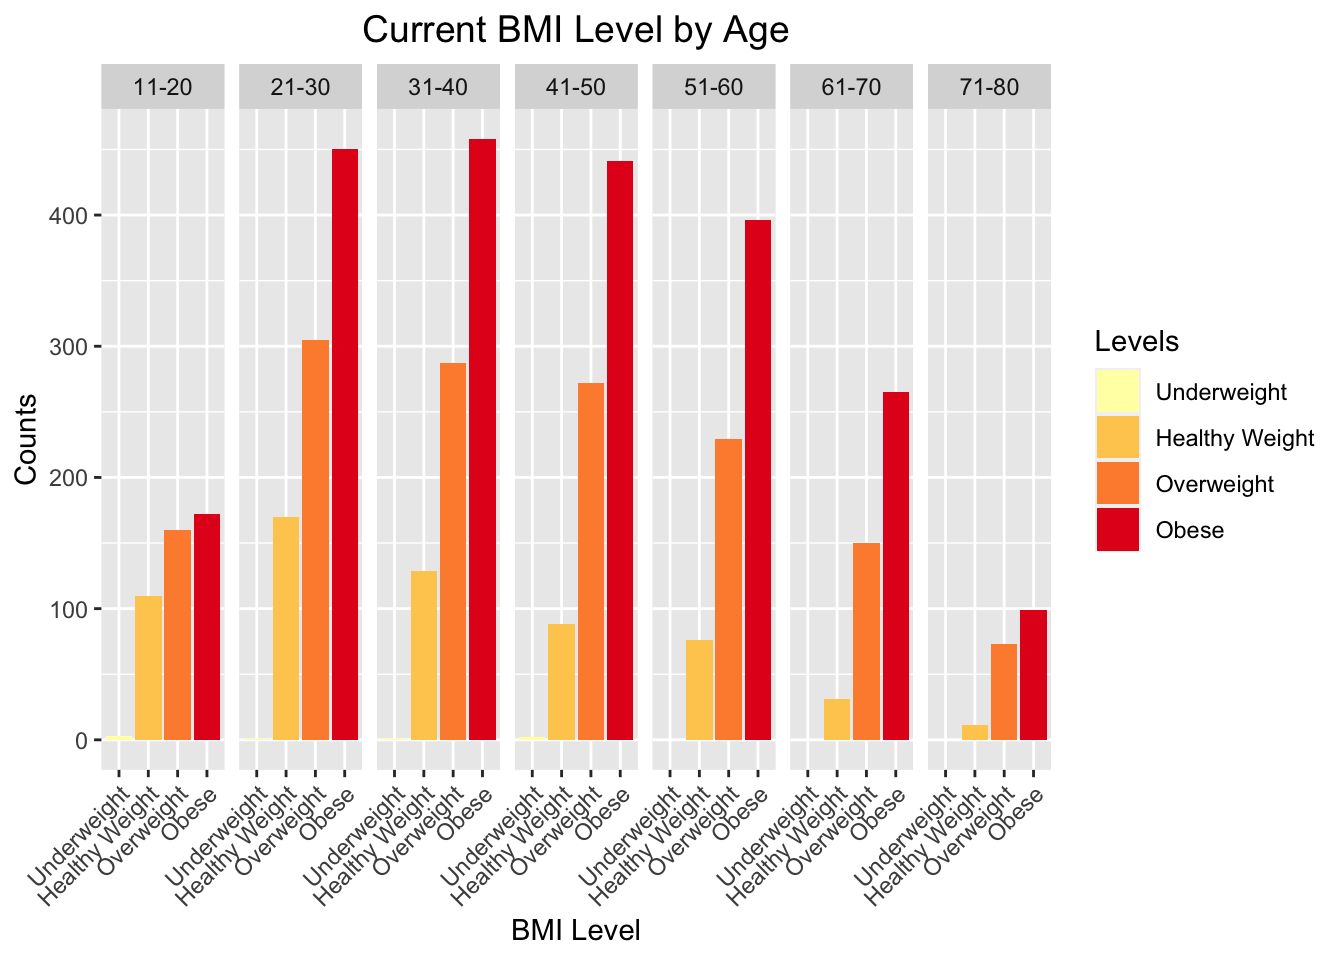
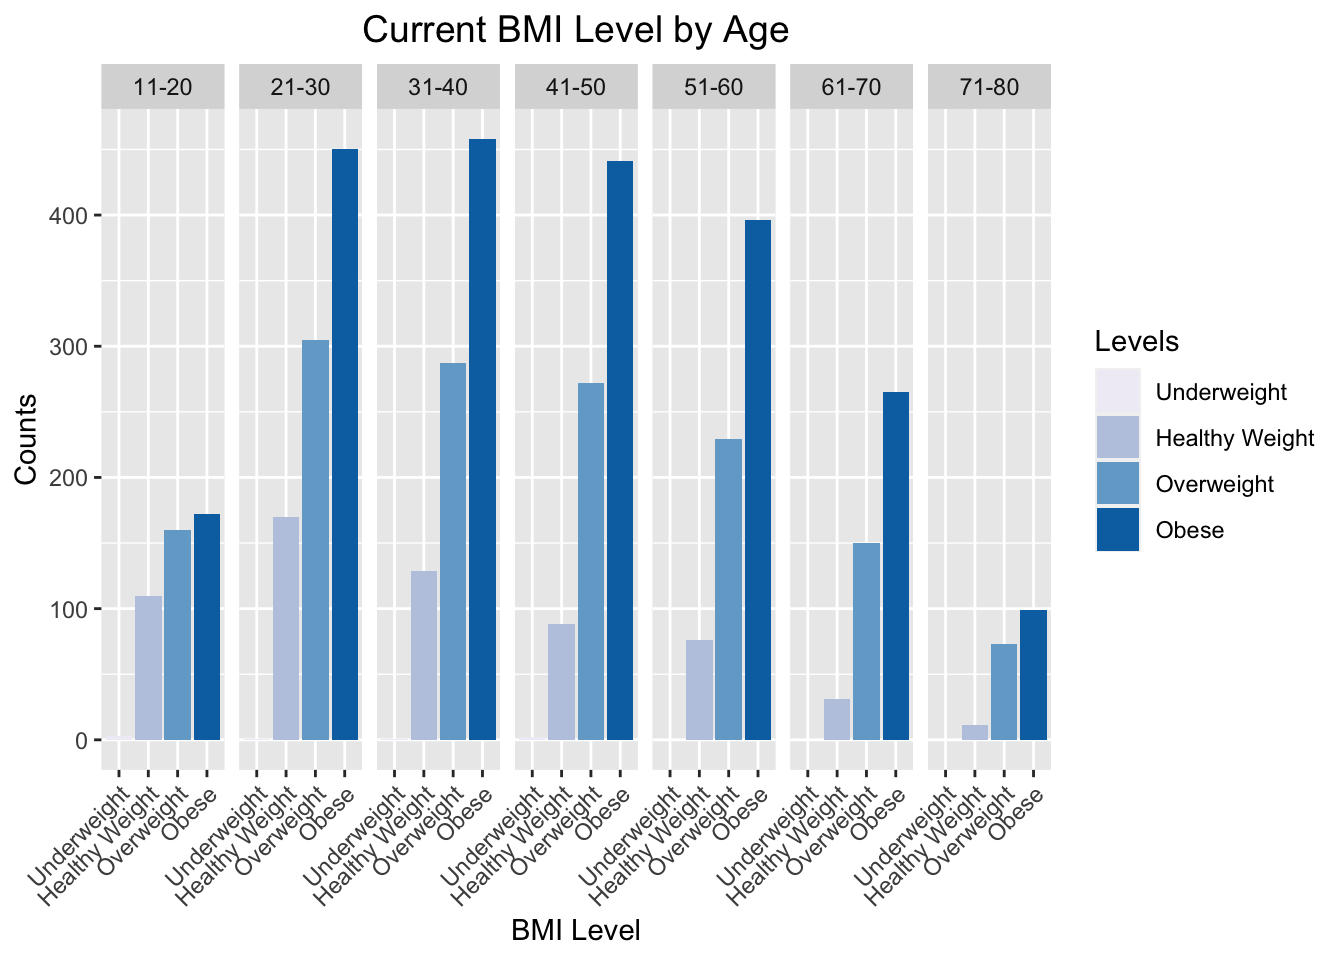
update text for charts

diff --git a/docs/results.html b/docs/results.html
@@ -241,8 +241,8 @@ pre > code.sourceCode > span > a:first-child::before { text-decoration: underlin
 </section>
 <section id="heatmap---previous-bmi-vs.-current-bmi" class="level2" data-number="3.3">
 <h2 data-number="3.3" class="anchored" data-anchor-id="heatmap---previous-bmi-vs.-current-bmi"><span class="header-section-number">3.3</span> Heatmap - Previous BMI vs.&nbsp;Current BMI</h2>
-<p>Based on the BMI we calculated, we use a heatmap to take a look at the overall counts for both previous BMI and current BMI. The diagonal trend observed from the bottom left to the top right suggests that many individuals have remained within a similar BMI category. The lighter squares along the diagonal implies a consistency in BMI over time for a substantial number of participants. However, there are also some lighter squares off the diagonal, indicating that there have been changes in BMI for some individuals either towards the higher or lower end.</p>
-<p>The heatmap also shows a concentrated cluster of values within the BMI range of 20 to 30. To better take a look at the current BMI level of each clusters, we add overlaid points onto the heatmap, color-coded based on the current BMI level. The resulting visualization vividly illustrates that the majority of individuals within this BMI range are classified as overweight, and there do has a large amount of people are classified as health weight and obese.</p>
+<p>Based on the BMI we calculated, we use a heatmap to take a look at the overall counts for both previous BMI and current BMI. The diagonal trend observed from the bottom left to the top right suggests that many individuals have remained within a similar BMI category. The lighter squares along the diagonal implies a consistency in BMI over time for a substantial number of participants. However, there are also some lighter squares off the diagonal, indicating that there have been changes in BMI for some individuals either towards the higher or lower end. The heatmap also shows a concentrated cluster of values within the BMI range of 20 to 30.</p>
+<p>To better take a look at the current BMI level of each clusters, we add overlaid points onto the heatmap, color-coded based on the current BMI level. The resulting visualization vividly illustrates that the majority of individuals within this BMI range are classified as overweight, and there do has a large amount of people are classified as health weight and obese.</p>
 <div class="cell">
 <details>
 <summary>Code</summary>
@@ -305,6 +305,7 @@ pre > code.sourceCode > span > a:first-child::before { text-decoration: underlin
 </section>
 <section id="grouped-bar-chart---current-bmi-by-age" class="level2" data-number="3.5">
 <h2 data-number="3.5" class="anchored" data-anchor-id="grouped-bar-chart---current-bmi-by-age"><span class="header-section-number">3.5</span> Grouped Bar Chart - Current BMI by Age</h2>
+<p>In our exploration of the interplay between age and BMI, we crafted a grouped bar chart to show the distribution of current BMI across distinct age groups. The chart shows a prevalence of ‘Overweight’ and ‘Obese’ categories across all age groups, indicated by the taller bars in these categories. Conversely, the ‘Healthy Weight’ category appears to have fewer individuals, particularly in the middle age ranges. An interesting balance is noted in the BMI levels for teenagers in the 11-20 age groups, with a distribution that appears more evenly spread among different categories.</p>
 <div class="cell">
 <details>
 <summary>Code</summary>
@@ -318,7 +319,7 @@ pre > code.sourceCode > span > a:first-child::before { text-decoration: underlin
 <span id="cb5-8"><a href="#cb5-8" aria-hidden="true" tabindex="-1"></a></span>
 <span id="cb5-9"><a href="#cb5-9" aria-hidden="true" tabindex="-1"></a><span class="fu">ggplot</span>(whq, <span class="fu">aes</span>(<span class="at">x =</span> curr_bmi_level, <span class="at">fill =</span> curr_bmi_level)) <span class="sc">+</span> </span>
 <span id="cb5-10"><a href="#cb5-10" aria-hidden="true" tabindex="-1"></a>  <span class="fu">geom_bar</span>() <span class="sc">+</span> </span>
-<span id="cb5-11"><a href="#cb5-11" aria-hidden="true" tabindex="-1"></a>  <span class="fu">scale_fill_brewer</span>(<span class="at">name =</span> <span class="st">"Levels"</span>, <span class="at">palette =</span> <span class="st">"YlOrRd"</span>) <span class="sc">+</span> </span>
+<span id="cb5-11"><a href="#cb5-11" aria-hidden="true" tabindex="-1"></a>  <span class="fu">scale_fill_brewer</span>(<span class="at">name =</span> <span class="st">"Levels"</span>, <span class="at">palette =</span> <span class="st">"PuBu"</span>) <span class="sc">+</span> </span>
 <span id="cb5-12"><a href="#cb5-12" aria-hidden="true" tabindex="-1"></a>  <span class="fu">facet_grid</span>(. <span class="sc">~</span> age_group ) <span class="sc">+</span></span>
 <span id="cb5-13"><a href="#cb5-13" aria-hidden="true" tabindex="-1"></a>  <span class="fu">scale_x_discrete</span>(<span class="at">name =</span> <span class="st">"BMI Level"</span>) <span class="sc">+</span> </span>
 <span id="cb5-14"><a href="#cb5-14" aria-hidden="true" tabindex="-1"></a>  <span class="fu">scale_y_continuous</span>(<span class="at">name =</span> <span class="st">"Counts"</span>) <span class="sc">+</span></span>
@@ -333,16 +334,16 @@ pre > code.sourceCode > span > a:first-child::before { text-decoration: underlin
 </section>
 <section id="violin-plot---bmi-distribution-by-race" class="level2" data-number="3.6">
 <h2 data-number="3.6" class="anchored" data-anchor-id="violin-plot---bmi-distribution-by-race"><span class="header-section-number">3.6</span> Violin Plot - BMI Distribution by Race</h2>
+<p>We use a violin plot to provide a visual comparison of BMI distributions across the race groups. Some races, such as non-Hispanic Black and other Race, show a wider distribution of BMI, indicating more variability within these groups. Conversely, others groups have a narrower distribution, suggesting more uniform BMI values.</p>
+<p>The median BMI values vary by group, with non-Hispanic Black shows a higher median and non-Hispanic Asian shows a comparatively smaller median. Additionally, the plot reveals a prevalent right skewed trend with longer tail towards higher BMI values in most groups. Notably, Non-Hispanic Asian is more closely resembling normality, showcasing a balanced and symmetric BMI profile. The existence of outliers within each group further emphasizes the diversity of BMI values.</p>
 <div class="cell">
 <details>
 <summary>Code</summary>
-<div class="sourceCode cell-code" id="cb6"><pre class="sourceCode r code-with-copy"><code class="sourceCode r"><span id="cb6-1"><a href="#cb6-1" aria-hidden="true" tabindex="-1"></a><span class="fu">library</span>(ggplot2)</span>
-<span id="cb6-2"><a href="#cb6-2" aria-hidden="true" tabindex="-1"></a></span>
-<span id="cb6-3"><a href="#cb6-3" aria-hidden="true" tabindex="-1"></a><span class="fu">ggplot</span>(whq, <span class="fu">aes</span>(<span class="at">x =</span> curr_bmi, <span class="at">y =</span> race, <span class="at">fill =</span> race)) <span class="sc">+</span> </span>
-<span id="cb6-4"><a href="#cb6-4" aria-hidden="true" tabindex="-1"></a>  <span class="fu">geom_violin</span>(<span class="at">trim=</span><span class="cn">FALSE</span>) <span class="sc">+</span></span>
-<span id="cb6-5"><a href="#cb6-5" aria-hidden="true" tabindex="-1"></a>  <span class="fu">geom_boxplot</span>(<span class="at">width=</span><span class="fl">0.1</span>, <span class="at">fill=</span><span class="st">"white"</span>) <span class="sc">+</span></span>
-<span id="cb6-6"><a href="#cb6-6" aria-hidden="true" tabindex="-1"></a>  <span class="fu">labs</span>(<span class="at">title=</span><span class="st">"BMI Distribution among Race"</span>,<span class="at">x=</span><span class="st">"BMI"</span>, <span class="at">y =</span> <span class="st">"Race"</span>) <span class="sc">+</span></span>
-<span id="cb6-7"><a href="#cb6-7" aria-hidden="true" tabindex="-1"></a>  <span class="fu">scale_fill_brewer</span>(<span class="at">palette=</span><span class="st">"Set3"</span>)</span></code><button title="Copy to Clipboard" class="code-copy-button"><i class="bi"></i></button></pre></div>
+<div class="sourceCode cell-code" id="cb6"><pre class="sourceCode r code-with-copy"><code class="sourceCode r"><span id="cb6-1"><a href="#cb6-1" aria-hidden="true" tabindex="-1"></a><span class="fu">ggplot</span>(whq, <span class="fu">aes</span>(<span class="at">x =</span> curr_bmi, <span class="at">y =</span> race, <span class="at">fill =</span> race)) <span class="sc">+</span> </span>
+<span id="cb6-2"><a href="#cb6-2" aria-hidden="true" tabindex="-1"></a>  <span class="fu">geom_violin</span>(<span class="at">trim=</span><span class="cn">FALSE</span>) <span class="sc">+</span></span>
+<span id="cb6-3"><a href="#cb6-3" aria-hidden="true" tabindex="-1"></a>  <span class="fu">geom_boxplot</span>(<span class="at">width=</span><span class="fl">0.1</span>, <span class="at">fill=</span><span class="st">"white"</span>) <span class="sc">+</span></span>
+<span id="cb6-4"><a href="#cb6-4" aria-hidden="true" tabindex="-1"></a>  <span class="fu">labs</span>(<span class="at">title=</span><span class="st">"BMI Distribution among Race"</span>,<span class="at">x=</span><span class="st">"BMI"</span>, <span class="at">y =</span> <span class="st">"Race"</span>) <span class="sc">+</span></span>
+<span id="cb6-5"><a href="#cb6-5" aria-hidden="true" tabindex="-1"></a>  <span class="fu">scale_fill_brewer</span>(<span class="at">palette=</span><span class="st">"Set3"</span>)</span></code><button title="Copy to Clipboard" class="code-copy-button"><i class="bi"></i></button></pre></div>
 </details>
 <div class="cell-output-display">
 <p><img src="results_files/figure-html/unnamed-chunk-9-1.png" class="img-fluid" width="1152"></p>
